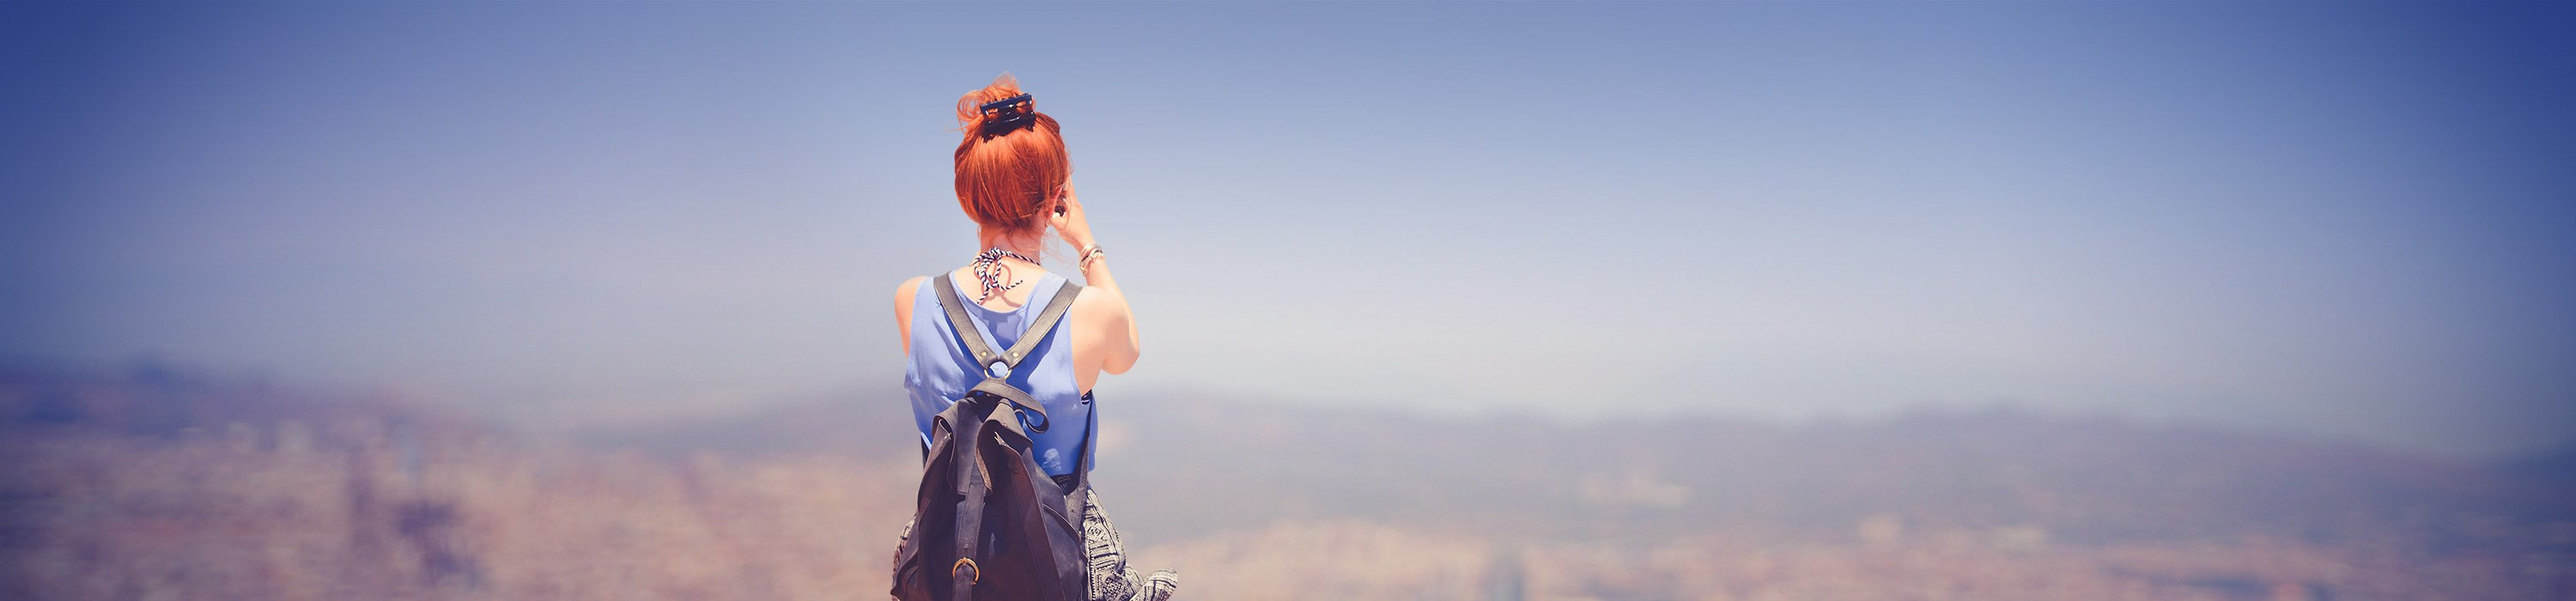
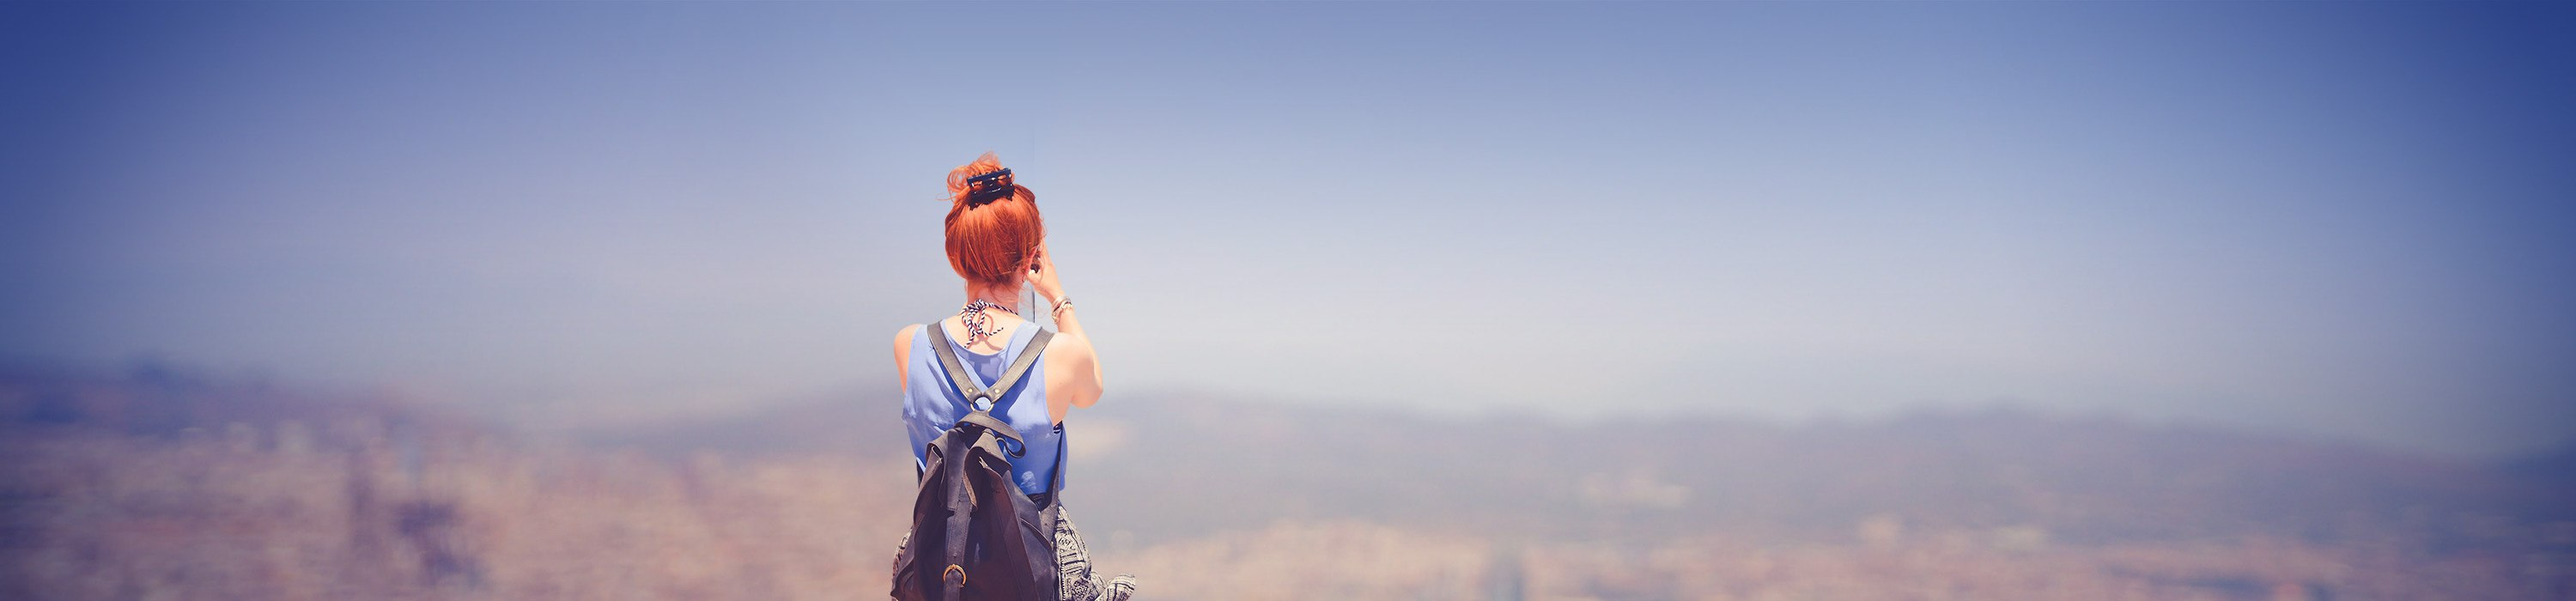
Program: update image

Changed region(s): [[0.341, 0.12, 0.465, 1.0]]

diff --git a/app/assets/stylesheets/program.css.scss b/app/assets/stylesheets/program.css.scss
@@ -41,7 +41,7 @@
     max-width: 3000px;
     margin: 0 auto;
     background: image-url('program/city-woman.jpg') no-repeat;
-    background-position: calc(50% + 100px) 0;
+    background-position: calc(50% + 150px) 0;
     min-height: 500px;
     padding-right: 10px;
     color: white;
